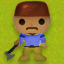
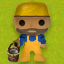
New NPC - Fishmen and Wisemen

diff --git a/Kingdom4/src/game/GameEngine.java b/Kingdom4/src/game/GameEngine.java
@@ -17,44 +17,44 @@ import java.util.ArrayList;
 
 public class GameEngine extends Observable {
 
-    private final char[][] world =
-    		{
-                {'(','-','-','-','-','-','-','-','-','-','-','-','-','-','-','-','-','-','-','-','-','-','-','-','-','-','-','+','R','r',' ','Z'},
-                {'@',' ','Z','Y','z',' ','Y','x',' ',' ','Z',' ',' ',' ',' ',' ','x','z',' ','Y',' ','X',' ','z',' ','Z',' ',' ','R','r','X',' '},
-                {'@',' ',' ','X',' ',' ','X',' ',' ',' ',' ','M','N',' ','Y',' ',' ','z',' ',' ',' ',' ',' ',' ',' ',' ',' ','x','R','r','Y','X'},
-                {'@',' ',' ',' ',' ',' ',' ','Z',' ',' ',' ','O','P',' ',' ',' ','Z','I','J',' ','X','x','z',' ',' ',' ','A','/','R','r','z',' '},
-                {'@','z',' ',' ','Z',' ',' ',' ',' ',' ',' ','a','c','z',' ',' ',' ','K','L',' ','x','x','X',' ','y','X','C','D','R','r',' ',' '},
-                {'@',' ',' ',' ','Z','Z',' ',' ',' ','X',' ',' ','g',' ',' ',' ',' ','g',' ','X','x','Y',' ',' ',' ','3','g','$','R','r','Y',' '},
-                {'@','X','x',' ',' ','z','X',' ',' ',' ',' ',' ','g','x',' ',' ',' ','g',' ',' ','h','f','f','f','f','f','j',' ','R','r',' ','X'},
-                {'@','Y','X','z',' ',' ','Y','x','X',' ',' ','Y','g',' ',' ',' ','X','g',' ','Z','g',' ',' ',' ',' ',' ','z','Y','R','r',' ','X'},
-                {'@',' ',' ','x',' ',' ','E','F',' ',' ',' ',' ','m','f','f','f','f','l','f','f','o',' ','X','X',' ',' ','Z',' ','R','r','X','X'},
-                {'@',' ','X','x',' ',' ','G','H',' ',' ',' ',' ','g',' ',' ',' ',' ',' ',' ',' ','g','Y','X',' ',' ',' ',' ',' ','R','r',' ','Z'},
-                {'@',' ',' ',' ',' ',' ',' ','g','Z',' ','z',' ','g',' ',' ','Z','Y','x',' ',' ','g',' ','Z','z',' ',' ',' ',' ','R','r',' ',' '},
-                {'@','Z',' ',' ',' ',' ',' ','k','f','f','f','f','o','z','x','X','x','Y',' ',' ','g',' ',' ',' ',' ',' ',' ',' ','R','r',' ',' '},
-                {'@',' ','z',' ',' ',' ',' ',' ',' ',' ','X',' ','g',' ',' ','X','x',' ',' ',' ','g','z',' ',' ','X',' ',' ',' ','R','r','z',' '},
-                {'@','X','X',' ',' ',' ','X',' ',' ',' ',' ',' ','g',' ',' ',' ','X','X',' ',' ','g',' ',' ','Y','x',' ','z','X','R','r',' ',' '},
-                {'@','x','Y',' ',' ',' ',' ',' ',' ','z','z',' ','g',' ','X','x',' ',' ','h','f','j',' ',' ',' ',' ',' ',' ','Z','R','r',' ',' '},
-                {'@','z','Y',' ','Z','x','X','V','W',' ',' ',' ','g',' ','z','x',' ',' ','g',' ','X','X',' ',' ',' ',' ',' ',' ','R','r','X',' '},
-                {'@',' ',' ',' ',' ','X','x','%','#',' ',' ',' ','g',' ',' ',' ',' ',' ','g','Y',' ',' ',' ',' ',' ',' ',' ','X','R','r','Y',' '},
-                {'@',' ',' ',' ',' ','z','4','g','X','x','Z','Z','g','Z','Z',' ',' ','Z','g',' ','z',' ',' ',' ',' ','Z',' ',' ','R','r',' ','Z'},
-                {'@',' ',' ',' ',' ',' ',' ','g',' ','Y','Z','h','l','i','Z',' ',' ','X','g','Z','z',' ','X',' ',' ',' ','x',' ','R','r',' ','z'},
-                {'@','Z','Q','S','X','y','Y','m','f','f','f','o','p','m','f','f','f','f','j','Y',' ',' ','Z',' ',' ',' ',' ','x','R','r','Y',' '},
-                {'@',' ','T','U','2',' ',' ','g',' ',' ','Z','k','n','j','Z',' ',' ',' ',' ',' ',' ','E','F',' ',' ',' ',' ',' ','R','r',' ',' '},
-                {'@',' ',' ','g',' ',' ',' ','g',' ',' ','Z','Z','g','Z','Z',' ',' ','z','X',' ',' ','G','H',' ',' ',' ','X',' ','R','r',' ',' '},
-                {'@','X',' ','k','f','f','f','j',' ','I','J','X','g',' ',' ',' ',' ',' ',' ',' ',' ',' ','g',' ',' ',' ',' ',' ','R','r',' ','X'},
-                {'@','Z','X',' ','x','Y','X','Y',' ','K','L',' ','g',' ',' ','Y',' ',' ',' ','x','Y',' ','g',' ',' ',' ','Z','Z','R','r',' ','x'},
-                {'@','x','x','Z',' ','x','X','x','X','g',' ',' ','g','z',' ',' ',' ',' ',' ',' ','X','Z','g','Z',' ',' ','z','Y','R','r','Z',' '},
-                {'@','y',' ','X',' ','X','X','z','Y','k','f','f','l','f','f','f','f','f','f','f','f','f','l','f','f','f','f','1','B','b','f','f'},
-                {'@','X',' ',' ',' ','Z',' ',' ',' ','X',' ','x',' ',' ',' ',' ',' ',' ',' ',' ',' ',' ',' ',' ',' ',' ',' ',' ','R','r',' ','X'},
-                {'@','Z','X',' ','X','X','x','Y','x','x','Z','X',' ',' ',' ','Y',' ',' ','Z','X','X',' ',' ',' ',' ',' ','x','Z','R','r',' ','Y'},
-                {'@','x','X','z','Y','Y','x','X',' ',' ','z','Y','X','X','Y','X',' ',' ',' ',' ',' ',' ',' ',' ',' ',' ','x','Y','R','r','z','Z'},
-                {'@','Y','x','X',' ',' ',' ','Z','X','x',' ',' ',' ','Z','x','Y','z',' ',' ',' ',' ',' ',' ','z',' ',' ',' ','Y','R','r',' ',' '},
-                {'@','!','x','x',' ','X','y','X',' ','Y','X','Y','X','Z','x','x','X',' ',' ',' ','z',' ',' ',' ',' ',' ',' ',' ','R','r',' ',' '},
-                {'@',' ',' ','X',' ','X','z',' ',' ','Z','z','Z','X','Y',' ','X',' ','Z',' ',' ',' ','Y','Z','X',' ',' ',' ',' ','R','r',' ','X'},
-                {'@','x',' ',' ','Z','x','X','Y',' ','X',' ','x','x','Z',' ',' ','X','Z','X',' ','Z','x',' ',' ','Z',' ','Y','X','R','r','X','x'},
-                {'@','X','x','X','x','x','X','Z',' ','X',' ','z',' ',' ','y',' ',' ',' ','x',' ',' ','X','y',' ',' ','§','Y','x','R','r','X','x'},
-                {')','=','=','=','=','=','=','=','=','=','=','=','=','=','=','=','=','=','=','=','=','=','=','=','=','=','=','&','R','r','x','X'}
-        };
+	private final char[][] world =
+		{
+            {'(','-','-','-','-','-','-','-','-','-','-','-','-','-','-','-','-','-','-','-','-','-','-','-','-','-','-','+','R','r',' ','Z'},
+            {'@',' ','Z','Y','z',' ','Y','x',' ',' ','Z',' ',' ',' ',' ',' ','x','z',' ','Y',' ','X',' ','z',' ','Z',' ',' ','R','r','X',' '},
+            {'@',' ',' ','X',' ',' ','X',' ',' ',' ',' ','M','N',' ','Y',' ',' ','z',' ',' ',' ',' ',' ',' ',' ',' ',' ','x','R','r','Y','X'},
+            {'@',' ',' ',' ',' ',' ',' ','Z',' ',' ',' ','O','P',' ',' ',' ','Z','I','J',' ','X','x','z',' ',' ',' ','A','/','R','r','z',' '},
+            {'@','z',' ',' ','Z',' ',' ',' ',' ',' ',' ','a','c','z',' ',' ',' ','K','L',' ','x','x','X',' ','y','X','C','D','R','r',' ',' '},
+            {'@',' ',' ',' ','Z','Z',' ',' ',' ','X',' ',' ','g',' ',' ',' ',' ','g',' ','X','x','Y',' ',' ',' ','3','g','$','R','r','Y',' '},
+            {'@','X','x',' ',' ','z','X',' ',' ',' ',' ',' ','g','x',' ',' ',' ','g',' ',' ','h','f','f','f','f','f','j',' ','R','r',' ','X'},
+            {'@','Y','X','z',' ',' ','Y','x','X',' ',' ','Y','g',' ',' ',' ','X','g',' ','Z','g',' ',' ',' ',' ',' ','z','Y','R','r',' ','X'},
+            {'@',' ',' ','x',' ',' ','E','F',' ',' ',' ',' ','m','f','f','f','f','l','f','f','o',' ','X','X',' ',' ','Z',' ','R','r','X','X'},
+            {'@',' ','X','x',' ',' ','G','H',' ',' ',' ',' ','g',' ',' ',' ',' ',' ',' ',' ','g','Y','X',' ',' ',' ',' ',' ','R','r',' ','Z'},
+            {'@',' ',' ',' ',' ',' ',' ','g','Z',' ','z',' ','g',' ',' ','Z','Y','x',' ',' ','g',' ','Z','z',' ',' ',' ',' ','R','r',' ',' '},
+            {'@','Z',' ',' ',' ',' ',' ','k','f','f','f','f','o','z','x','X','x','Y',' ',' ','g',' ',' ',' ',' ',' ',' ',' ','R','r',' ',' '},
+            {'@',' ','z',' ',' ',' ',' ',' ',' ',' ','X',' ','g',' ',' ','X','x',' ',' ',' ','g','z',' ',' ','X',' ',' ',' ','R','r','z',' '},
+            {'@','X','X',' ',' ',' ','X',' ',' ',' ',' ',' ','g',' ',' ',' ','X','X',' ',' ','g',' ',' ','Y','x',' ','z','X','R','r',' ',' '},
+            {'@','x','Y',' ',' ',' ',' ',' ',' ','z','z',' ','g',' ','X','x',' ',' ','h','f','j',' ',' ',' ',' ',' ',' ','Z','R','r',' ',' '},
+            {'@','z','Y',' ','Z','x','X','V','W',' ',' ',' ','g',' ','z','x',' ',' ','g',' ','X','X',' ',' ',' ',' ',' ',' ','R','r','X',' '},
+            {'@',' ',' ',' ',' ','X','x','%','#',' ',' ',' ','g',' ',' ',' ',' ',' ','g','Y',' ',' ',' ',' ',' ',' ',' ','X','R','r','Y',' '},
+            {'@',' ',' ',' ',' ','z',' ','g','X','x','Z','Z','g','Z','Z',' ',' ','Z','g',' ','z',' ',' ',' ',' ','Z',' ',' ','R','r',' ','Z'},
+            {'@',' ',' ',' ',' ',' ',' ','g',' ','Y','Z','h','l','i','Z',' ',' ','X','g','Z','z',' ','X',' ',' ',' ','x',' ','R','r',' ','z'},
+            {'@','Z','Q','S','X','y','Y','m','f','f','f','o','p','m','f','f','f','f','j','Y',' ',' ','Z',' ',' ',' ',' ','x','R','r','Y',' '},
+            {'@',' ','T','U','2',' ',' ','g',' ',' ','Z','k','n','j','Z',' ',' ',' ',' ',' ',' ','E','F',' ',' ',' ',' ',' ','R','r',' ',' '},
+            {'@',' ',' ','g',' ',' ',' ','g',' ',' ','Z','Z','g','Z','Z',' ',' ','z','X',' ',' ','G','H',' ',' ',' ','X',' ','R','r',' ',' '},
+            {'@','X',' ','k','f','f','f','j',' ','I','J','X','g',' ',' ','z',' ',' ',' ',' ',' ',' ','g',' ',' ',' ',' ',' ','R','r',' ','X'},
+            {'@','Z','X',' ','x','Y','X','Y',' ','K','L',' ','g','4',' ','Y',' ',' ',' ','x','Y',' ','g',' ',' ',' ','Z','Z','R','r',' ','x'},
+            {'@','x','x','Z',' ','x','X','x','X','g',' ',' ','g',' ',' ',' ',' ',' ',' ',' ','X','Z','g','Z',' ',' ','z','Y','R','r','Z',' '},
+            {'@','y',' ','X',' ','X','X','z','Y','k','f','f','l','f','f','f','f','f','f','f','f','f','l','f','f','f','f','1','B','b','f','f'},
+            {'@','X',' ',' ',' ','Z',' ',' ',' ','X',' ','x',' ',' ',' ',' ',' ',' ',' ',' ',' ',' ',' ',' ',' ',' ',' ',' ','R','r',' ','X'},
+            {'@','Z','X',' ','X','X','x','Y','x','x','Z','X',' ',' ','z','Y',' ',' ','Z','X','X',' ',' ',' ',' ',' ','x','Z','R','r',' ','Y'},
+            {'@','x','X','z','Y','Y','x','X',' ',' ','z','Y','X','X','Y','X',' ',' ',' ',' ',' ',' ',' ',' ',' ',' ','x','Y','R','r','z','Z'},
+            {'@','Y','x','X',' ',' ',' ','Z','X','x',' ',' ',' ','Z','x','Y','z',' ',' ',' ',' ',' ',' ','z',' ',' ',' ','Y','R','r',' ',' '},
+            {'@','!','x','x',' ','X','Z','X',' ','Y','X','Y','X','Z','x','x','X',' ',' ',' ','z',' ',' ',' ',' ',' ',' ',' ','R','r',' ',' '},
+            {'@',' ',' ','X',' ','X','z',' ',' ','Z','z','Z','X','Y',' ','X',' ','Z',' ',' ',' ','Y','Z','X',' ',' ',' ',' ','R','r',' ','X'},
+            {'@','x',' ',' ','Z','x','X','Y',' ','X',' ','x','x','Z',' ',' ','X','Z','X',' ','Z','x',' ',' ','Z',' ','Y','X','R','r','X','x'},
+            {'@','X','x','y','x','x','X','Z',' ','X',' ','z',' ',' ','y',' ',' ',' ','x',' ',' ','X','y',' ',' ','§','Y','x','R','r','X','x'},
+            {')','=','=','=','=','=','=','=','=','=','=','=','=','=','=','=','=','=','=','=','=','=','=','=','=','=','=','&','R','r','x','X'}
+    };
 
     private final int tileSize = 64 ;
     private final int amountHorizontalTiles = this.getWorld()[0].length;
